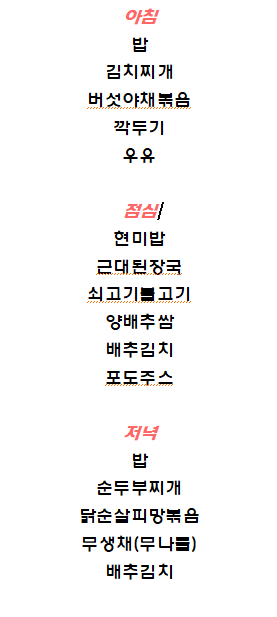
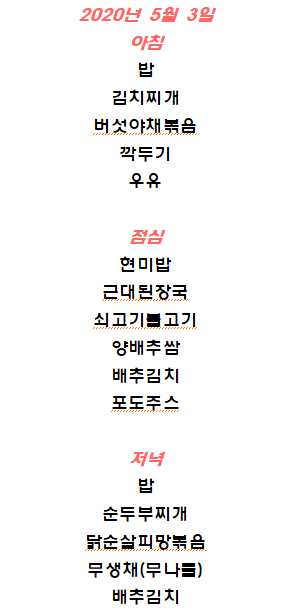
Add files via upload

Changed region(s): [[0.2888, 0.0, 0.722, 0.987], [0.6643, 0.0, 0.7509, 0.0617]]

diff --git a/53div.html b/53div.html
@@ -41,7 +41,7 @@
   }
   .section1
   {
-    margin-top: 170px;
+    margin-top: 140px;
   }
   .section2
   {
